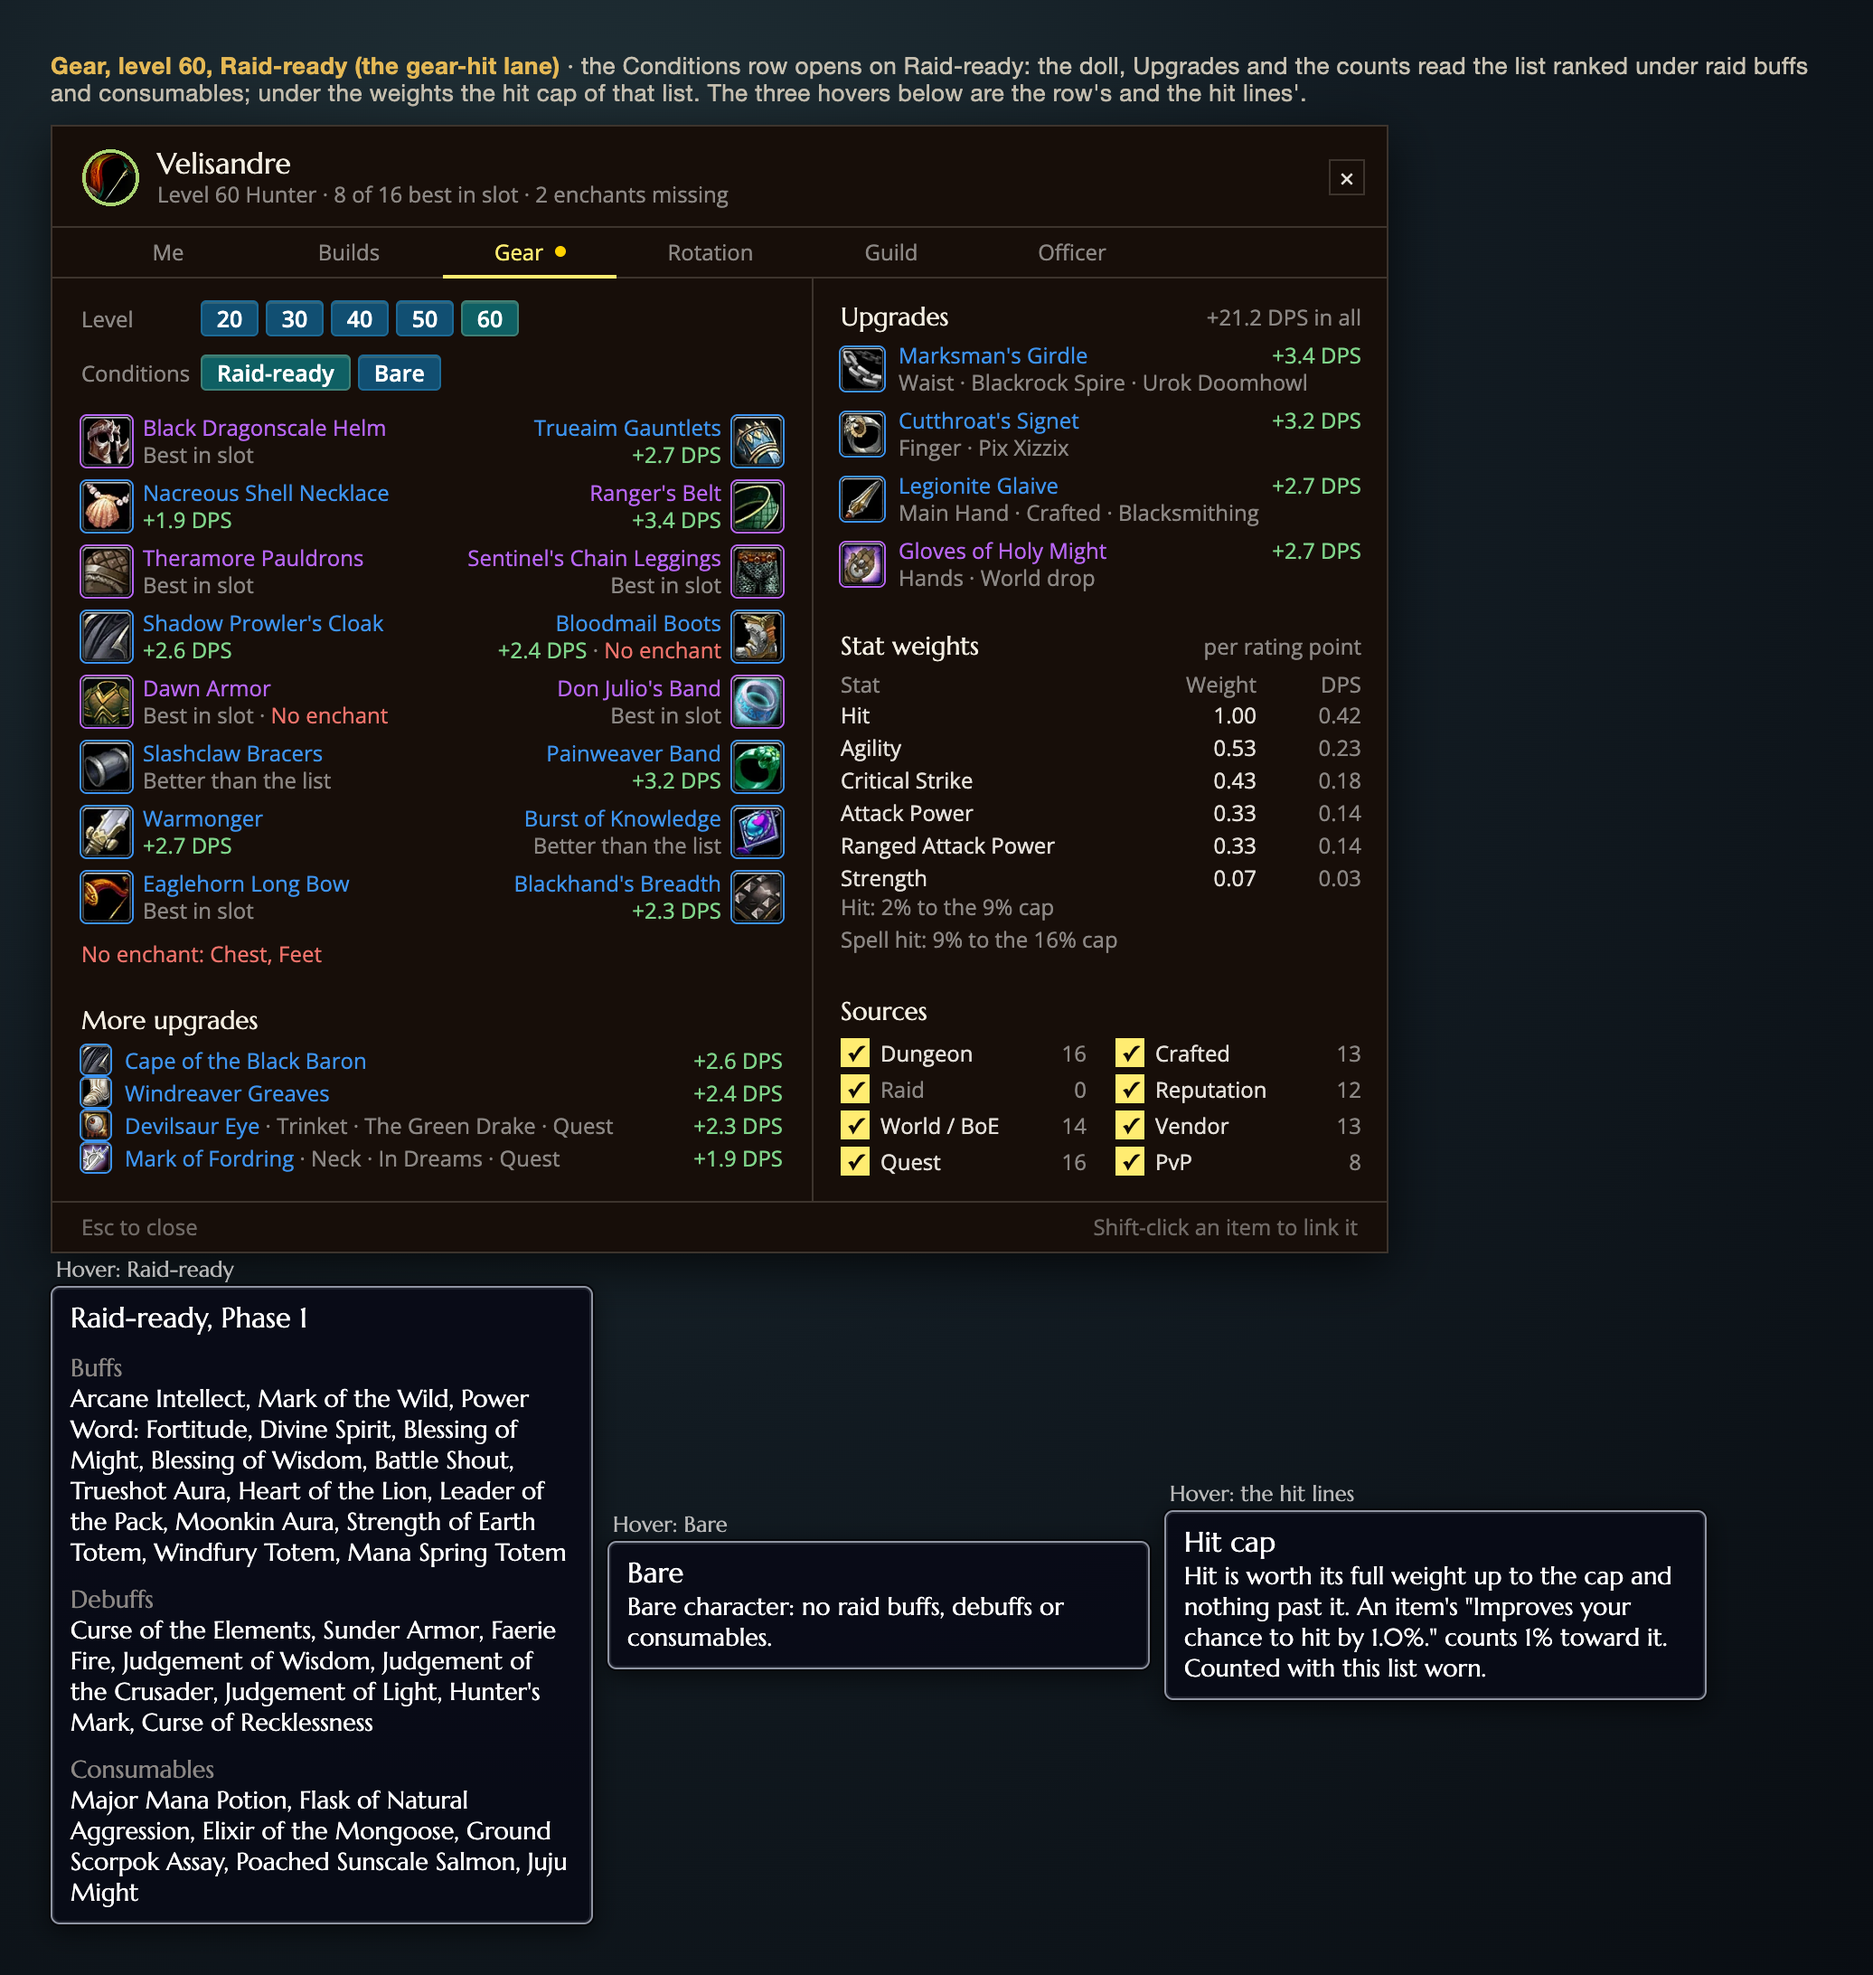
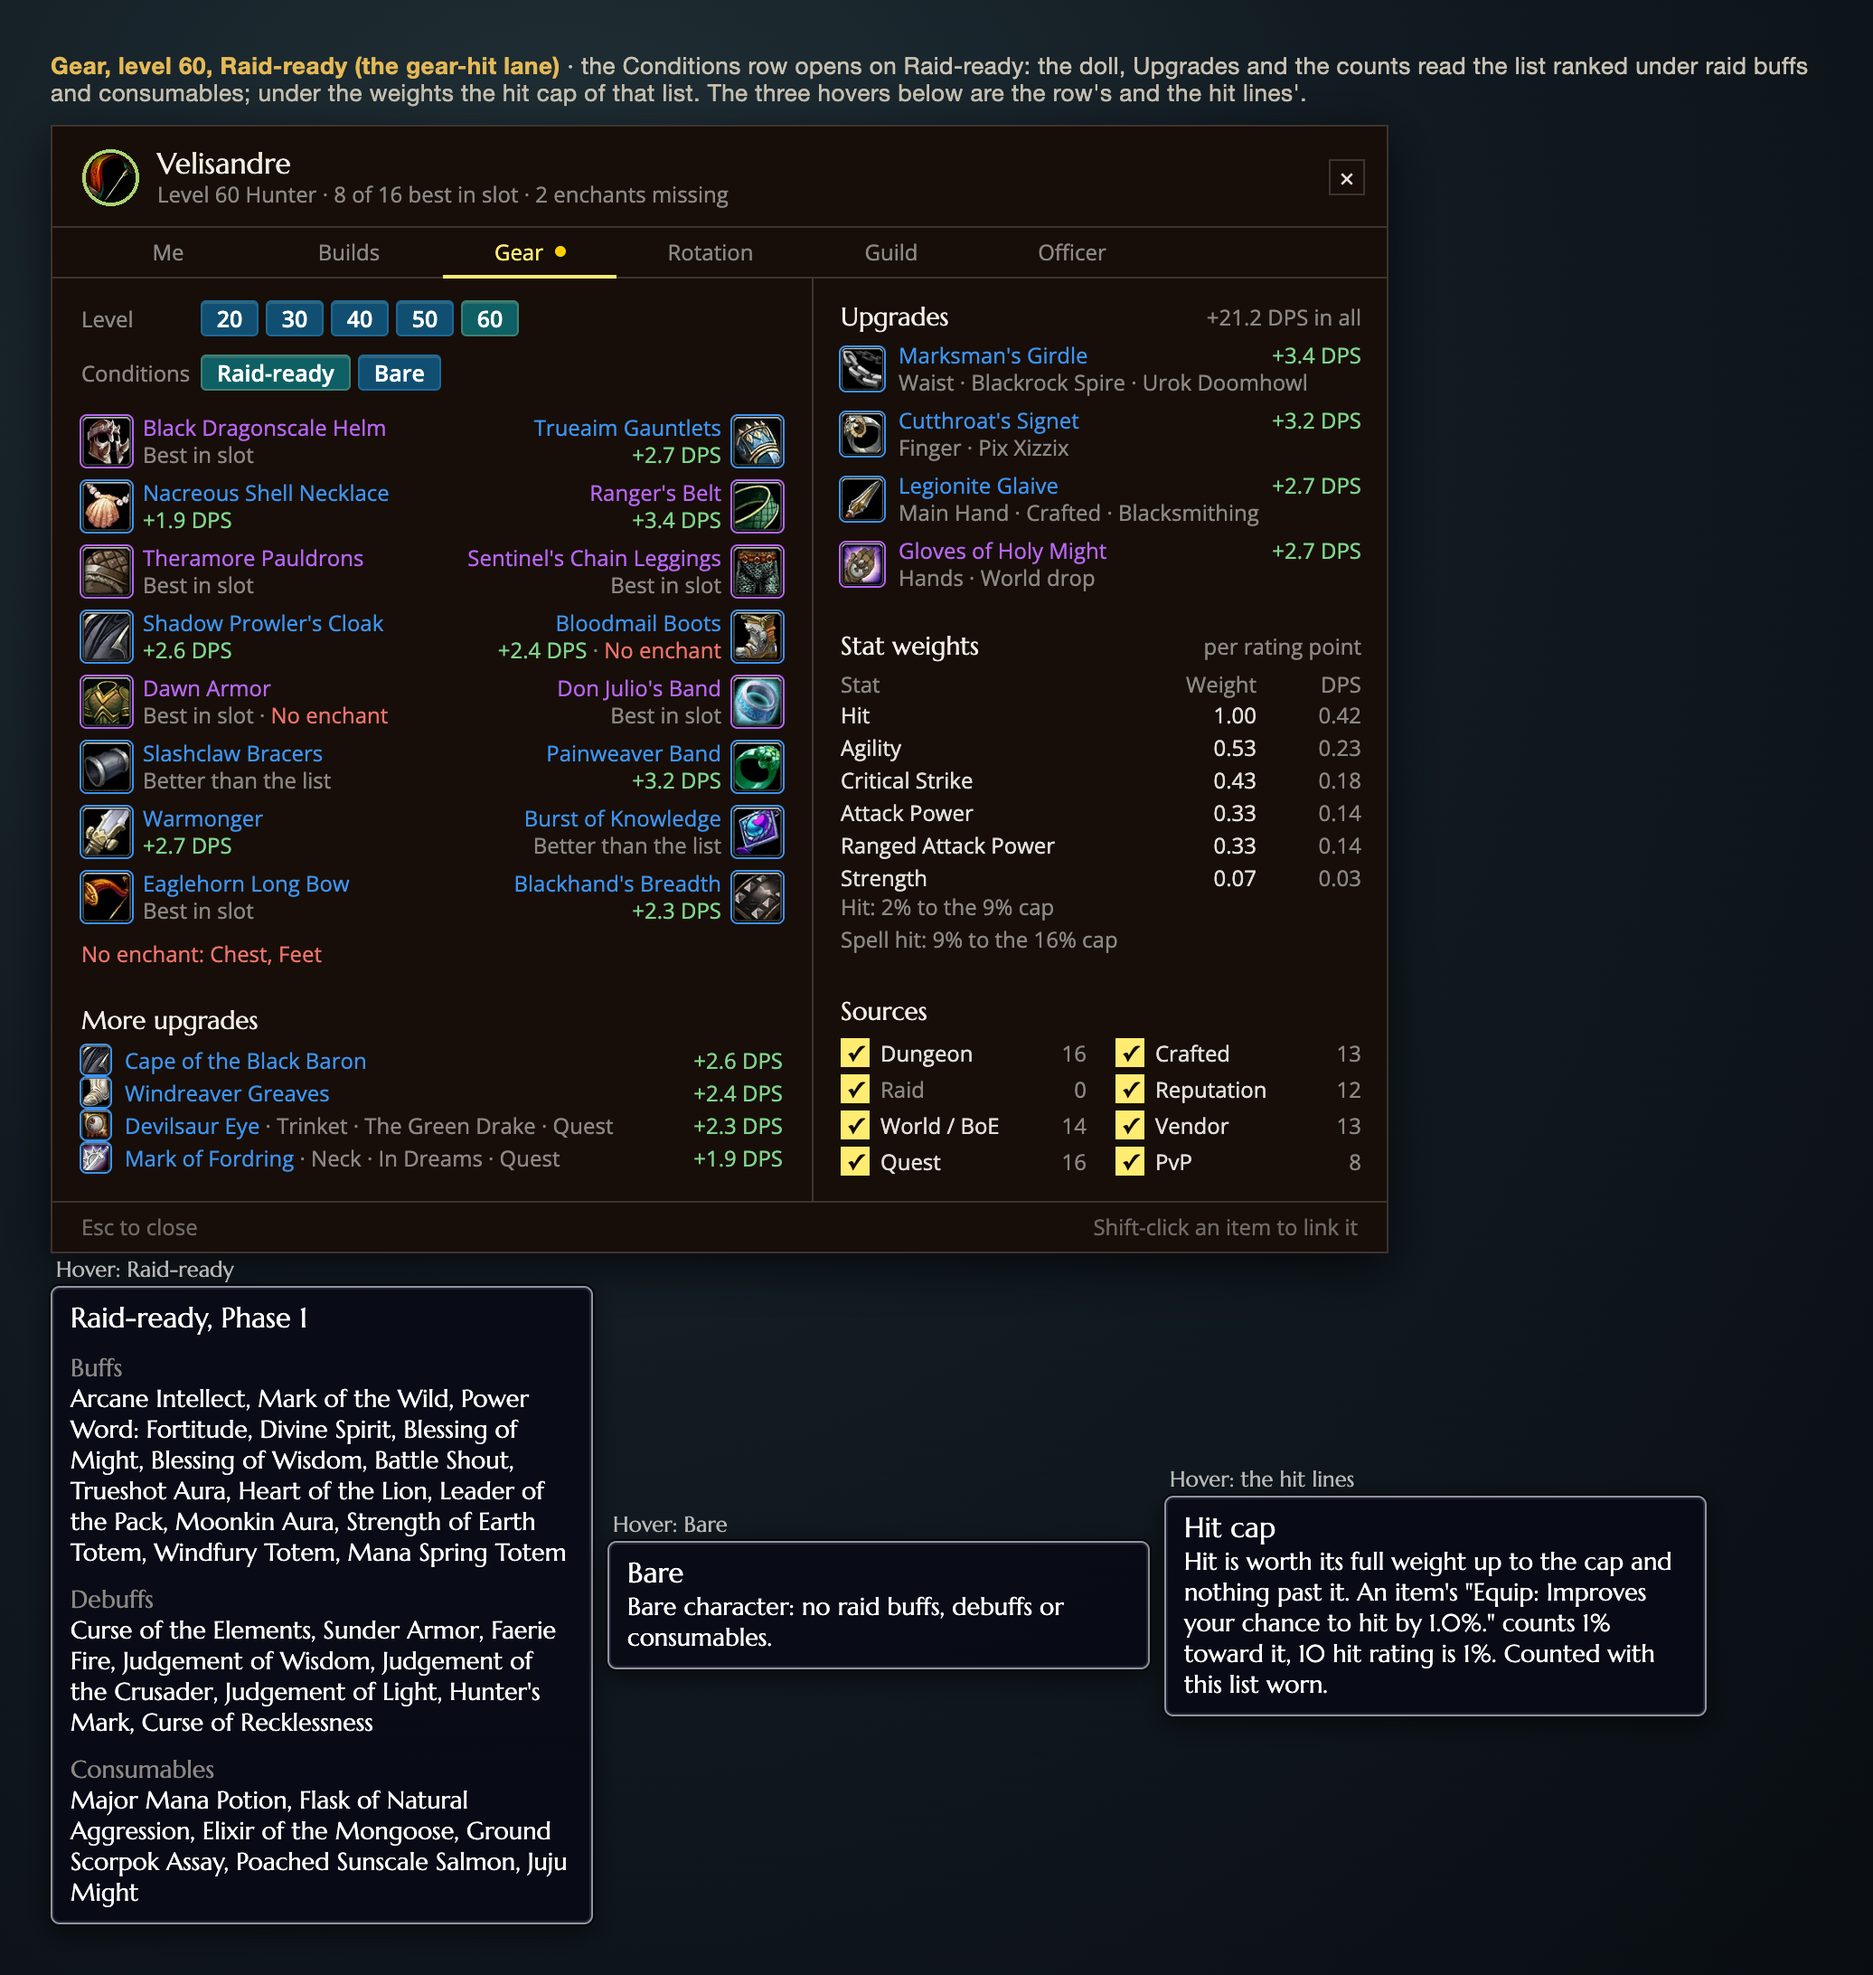
fix(addon-hub): the hit cap hover quotes the client's Equip line and the rating per percent; review verdicts
Claude-Session: https://claude.ai/code/session_01Wrtayzxz2jvhjren4pWihn

Changed region(s): [[0.6178, 0.7473, 0.8958, 0.8718]]

diff --git a/design/mocks/addon_hub_l3.py b/design/mocks/addon_hub_l3.py
@@ -477,8 +477,8 @@ def conditions_tips(ch):
                                ('Consumables', entry['consumes'])], 'Hover: Raid-ready'),
         hover('Bare', [(None, 'Bare character: no raid buffs, debuffs or consumables.')], 'Hover: Bare'),
         hover('Hit cap', [(None, 'Hit is worth its full weight up to the cap and nothing past it. An item\'s '
-                                 '"Improves your chance to hit by 1.0%." counts 1% toward it. Counted with this list '
-                                 'worn.')], 'Hover: the hit lines'),
+                                 '"Equip: Improves your chance to hit by 1.0%." counts 1% toward it, 10 hit rating is '
+                                 '1%. Counted with this list worn.')], 'Hover: the hit lines'),
     ]
 
 

diff --git a/design/reviews/2026-11-13-addon-hub/l3/gear-hit-ux-designer.md b/design/reviews/2026-11-13-addon-hub/l3/gear-hit-ux-designer.md
@@ -1,0 +1,22 @@
+# Gear tab, Conditions row and hit lines: ux-designer
+
+Reviewed: l3/gear-hunter-60-raid.png and l3/gear-warrior-60-bare.png against hub-gear.png, same scale. Spec 3.5, 4.3, 13 (Hit wording, Hit cap).
+
+## Verdict: SHIP
+
+No musts. The earlier l3 acceptance of "no Conditions row" is now closed: the row exists, only where a Raid-ready list exists.
+
+## Checked, region by region
+
+- Conditions row: sits directly under Level, same label column (x 90) and same first-button edge (x 230) as Level. Client buttons only; the chosen one is teal (Raid-ready on the hunter, Bare on the warrior), the other blue. Matches the spec's control table (line 129) and the hub-gear.png recipe.
+- Header, doll, Upgrades, Sources counts follow the chosen list: hunter 8 of 16 and +21.2 DPS in all on Raid-ready; warrior 17 of 17, Upgrades empty line "Nothing on this list beats what you wear.", source counts differ from the Raid-ready board. Consistent.
+- Hit lines: muted, under the weights, same pitch and position as the approved Haste line in hub-gear.png, so one pattern for "a note under the weights". Hunter shows Hit and Spell hit; dual-wield warrior shows Hit and White swings. Warrior's 3% / 22% pair is internally consistent (6% in hand against 9% and 28%).
+- Hovers: Raid-ready tooltip (Buffs, Debuffs, Consumables, grey group heads), Bare tooltip, Hit cap tooltip all use the client tooltip recipe. The Hit cap tooltip quotes the client's own line, as section 13 requires.
+
+## Shoulds
+
+1. The hit lines have no shown hover state. They are muted text with a tooltip, so nothing says they answer. Draw the hover: the line lifts to body colour while the tooltip is up. Same for the Conditions buttons' hover (blue lift), which the boards do not show.
+2. "2% to the 9% cap" can be read as "you have 2% of 9%". The spec's wording is "N% to cap", so it ships. If the tooltip has room, open it with "Hit still needed:" or add "more" in the line ("2% more to the 9% cap"). Owner's call; wow-player to weigh in.
+3. The hunter board has no Haste line under the weights, where hub-gear.png has one. If the shipped weights carry no haste figure, say so in the notes; if they do, the line is missing.
+4. The Raid-ready tooltip is 640 px tall at this scale: three paragraph blocks of comma lists. Acceptable as the web's own content, but break it into one line per buff only if the client wrap makes it taller than the window; check in game.
+5. The hunter's Spell hit line (9% to the 16% cap) is for wow-player to confirm against the hunter's spell-table specials (Arcane Shot, Serpent Sting); layout is fine either way.

diff --git a/design/reviews/2026-11-13-addon-hub/l3/gear-hit-wow-player.md b/design/reviews/2026-11-13-addon-hub/l3/gear-hit-wow-player.md
@@ -1,0 +1,19 @@
+# Gear hit lines and Conditions row: wow-player
+
+Verdict: SHIP, with shoulds.
+
+Checked against data/builds/1.60.1.70938/bis/*.json hit_to_cap.
+
+Figures:
+- Hunter BM, last band: specials 2, spell 9. The render reads "Hit: 2% to the 9% cap" and "Spell hit: 9% to the 16% cap". Matches.
+- Fury, Bare band: specials 3, white 22. The render reads "Hit: 3% to the 9% cap" and "White swings: 22% to the 28% cap". Matches.
+- The caps are right for a level-63 boss: 9 yellow, 28 dual-wield white, 16 spell.
+
+Musts: none.
+
+Shoulds:
+1. The weights table is "per rating point" while the lines are in percent, so the player has to know 10 hit rating = 1%. Add that to the hover: "10 hit rating = 1%."
+2. The lines are the list's character, not the player's own gear. A player reads "Hit: 2% to the 9% cap" as their own gap. The hover says "Counted with this list worn", but the visible line doesn't. Consider "with this list: Hit 2% to the 9% cap".
+3. The hover quotes "Improves your chance to hit by 1.0%.". The client writes "Equip: Improves your chance to hit by 1%." Check the exact string against the Forever client and add the "Equip:" prefix if the client shows it.
+4. The hit lines sit tight under the last weight row and look like a table row. A small gap or a divider would separate them.
+5. A hunter's "Hit" is the ranged-special line. "Ranged hit" would match how hunters say it.
